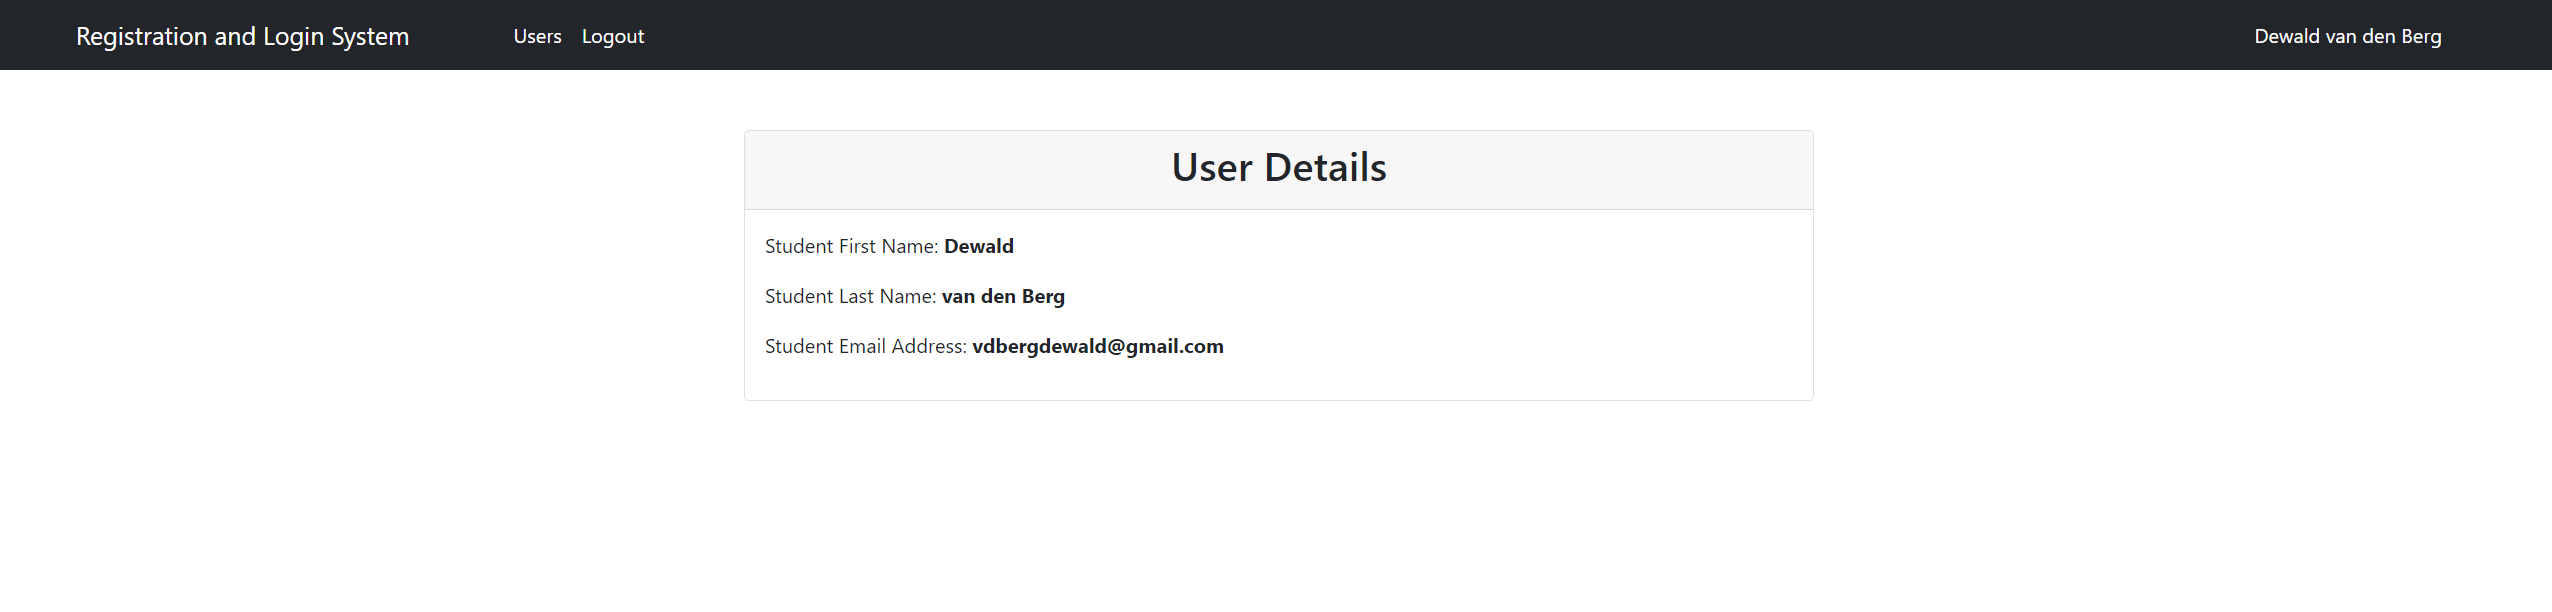
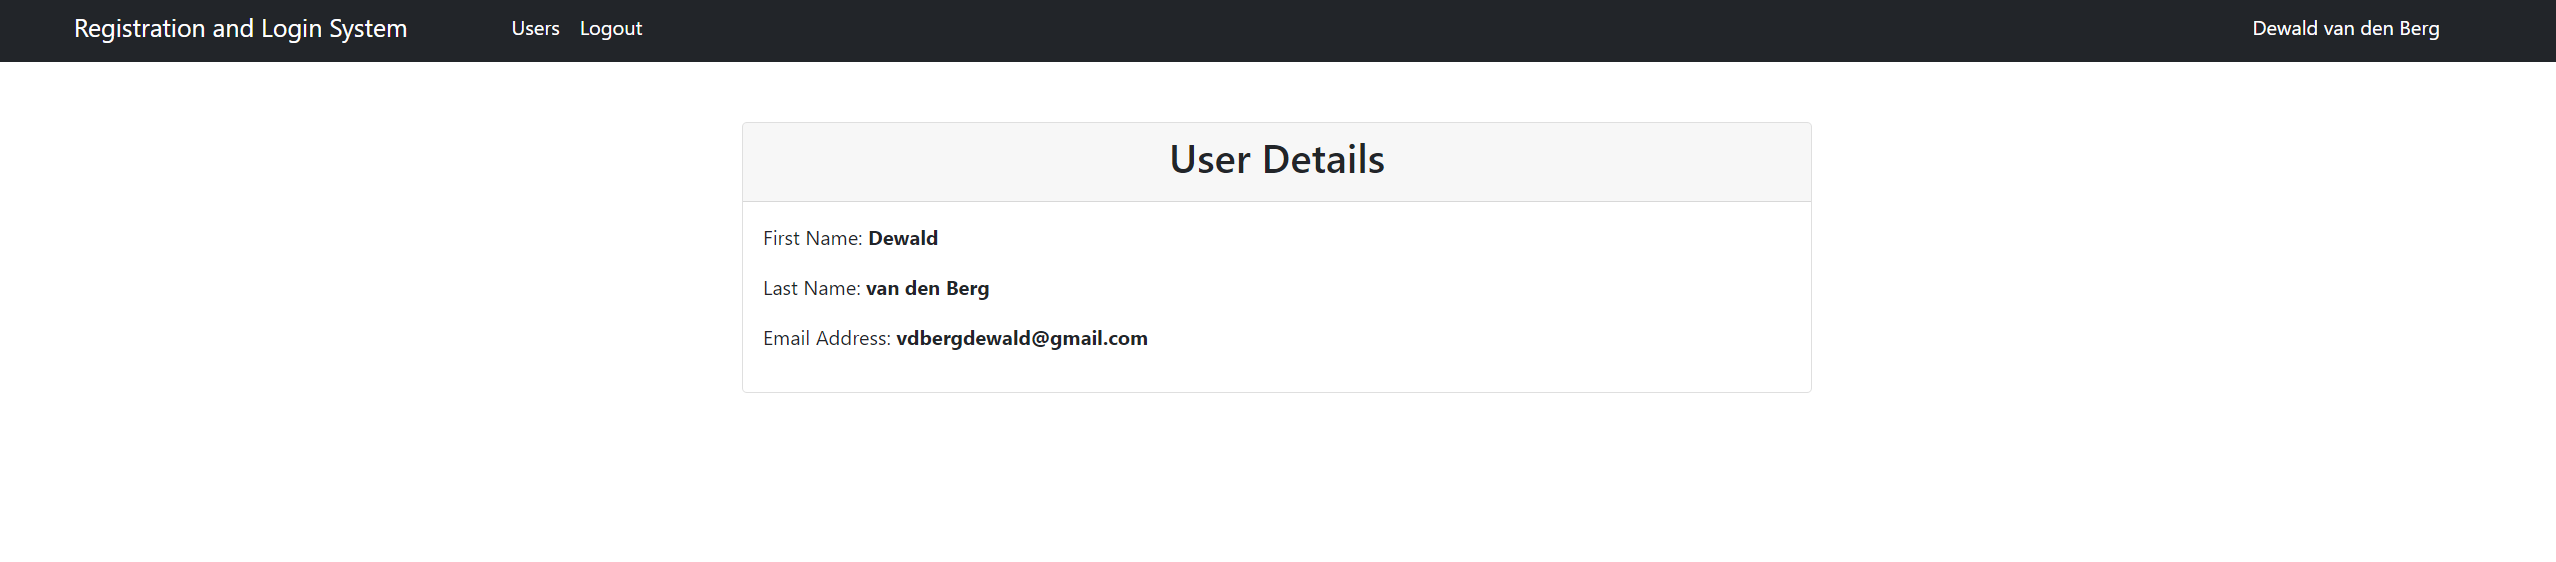
Minor UI update

Changed region(s): [[0.0, 0.0302, 1.0, 0.121], [0.2786, 0.3932, 0.4953, 0.6352], [0.4334, 0.242, 0.5572, 0.3327]]

diff --git a/src/main/resources/templates/view_user.html b/src/main/resources/templates/view_user.html
@@ -52,9 +52,9 @@
                             <h2 class="text-center">User Details</h2>
                         </div>
                         <div class="card-body">
-                            <p> Student First Name: <strong th:text="${user.firstName}"></strong></p>
-                            <p> Student Last Name: <strong th:text="${user.lastName}"></strong></p>
-                            <p> Student Email Address: <strong th:text="${user.email}"></strong></p>
+                            <p> First Name: <strong th:text="${user.firstName}"></strong></p>
+                            <p> Last Name: <strong th:text="${user.lastName}"></strong></p>
+                            <p> Email Address: <strong th:text="${user.email}"></strong></p>
                         </div>
                     </div>
                 </div>
